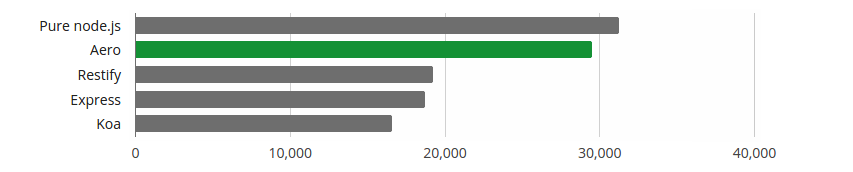
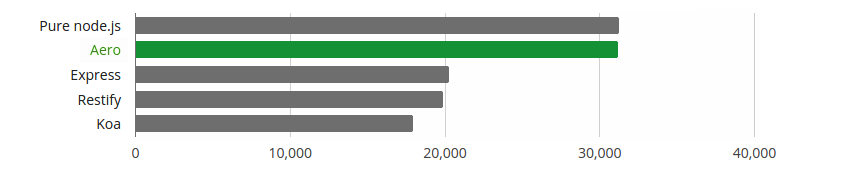
Updated benchmarks chart

diff --git a/README.md b/README.md
@@ -9,7 +9,7 @@
 
 Aero is the fastest web framework on the node platform. It is git friendly and works with Express middleware.
 
-[![Aero vs. Express vs. Koa vs. Restify vs. Node](docs/images/benchmark.png "Shows requests per second. More is better. Tested with node 5.6.0 on ApacheBench.")](https://github.com/blitzprog/webserver-benchmarks)
+[![Aero vs. Express vs. Koa vs. Restify vs. Node](docs/images/benchmark.png "Shows requests per second. More is better. Tested with node 6.5.0 on ApacheBench.")](https://github.com/blitzprog/webserver-benchmarks)
 
 ## Installation
 
